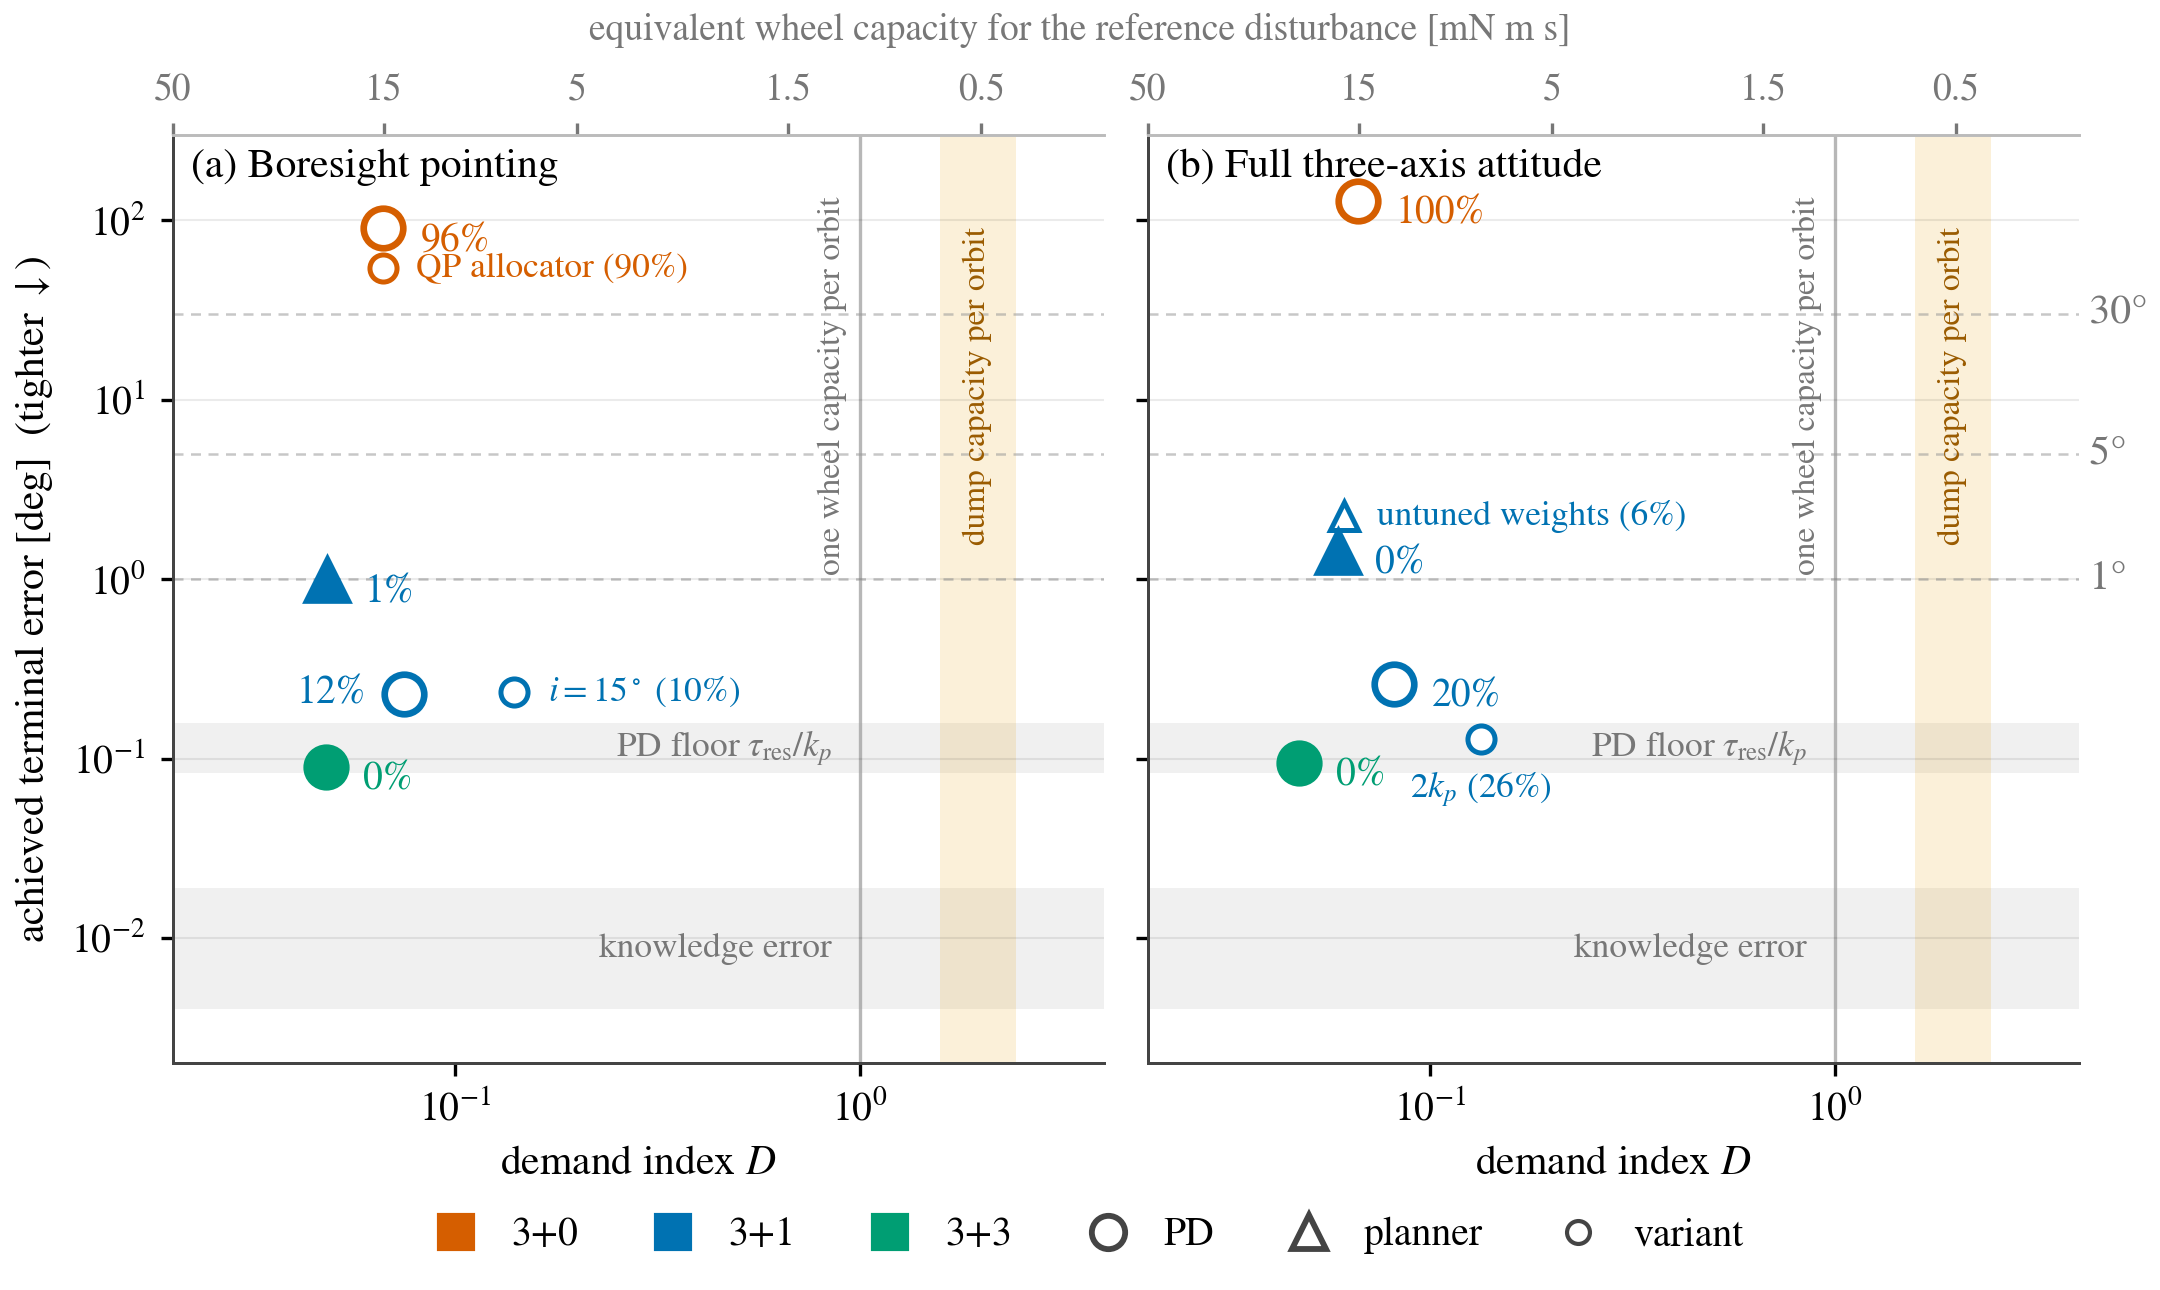
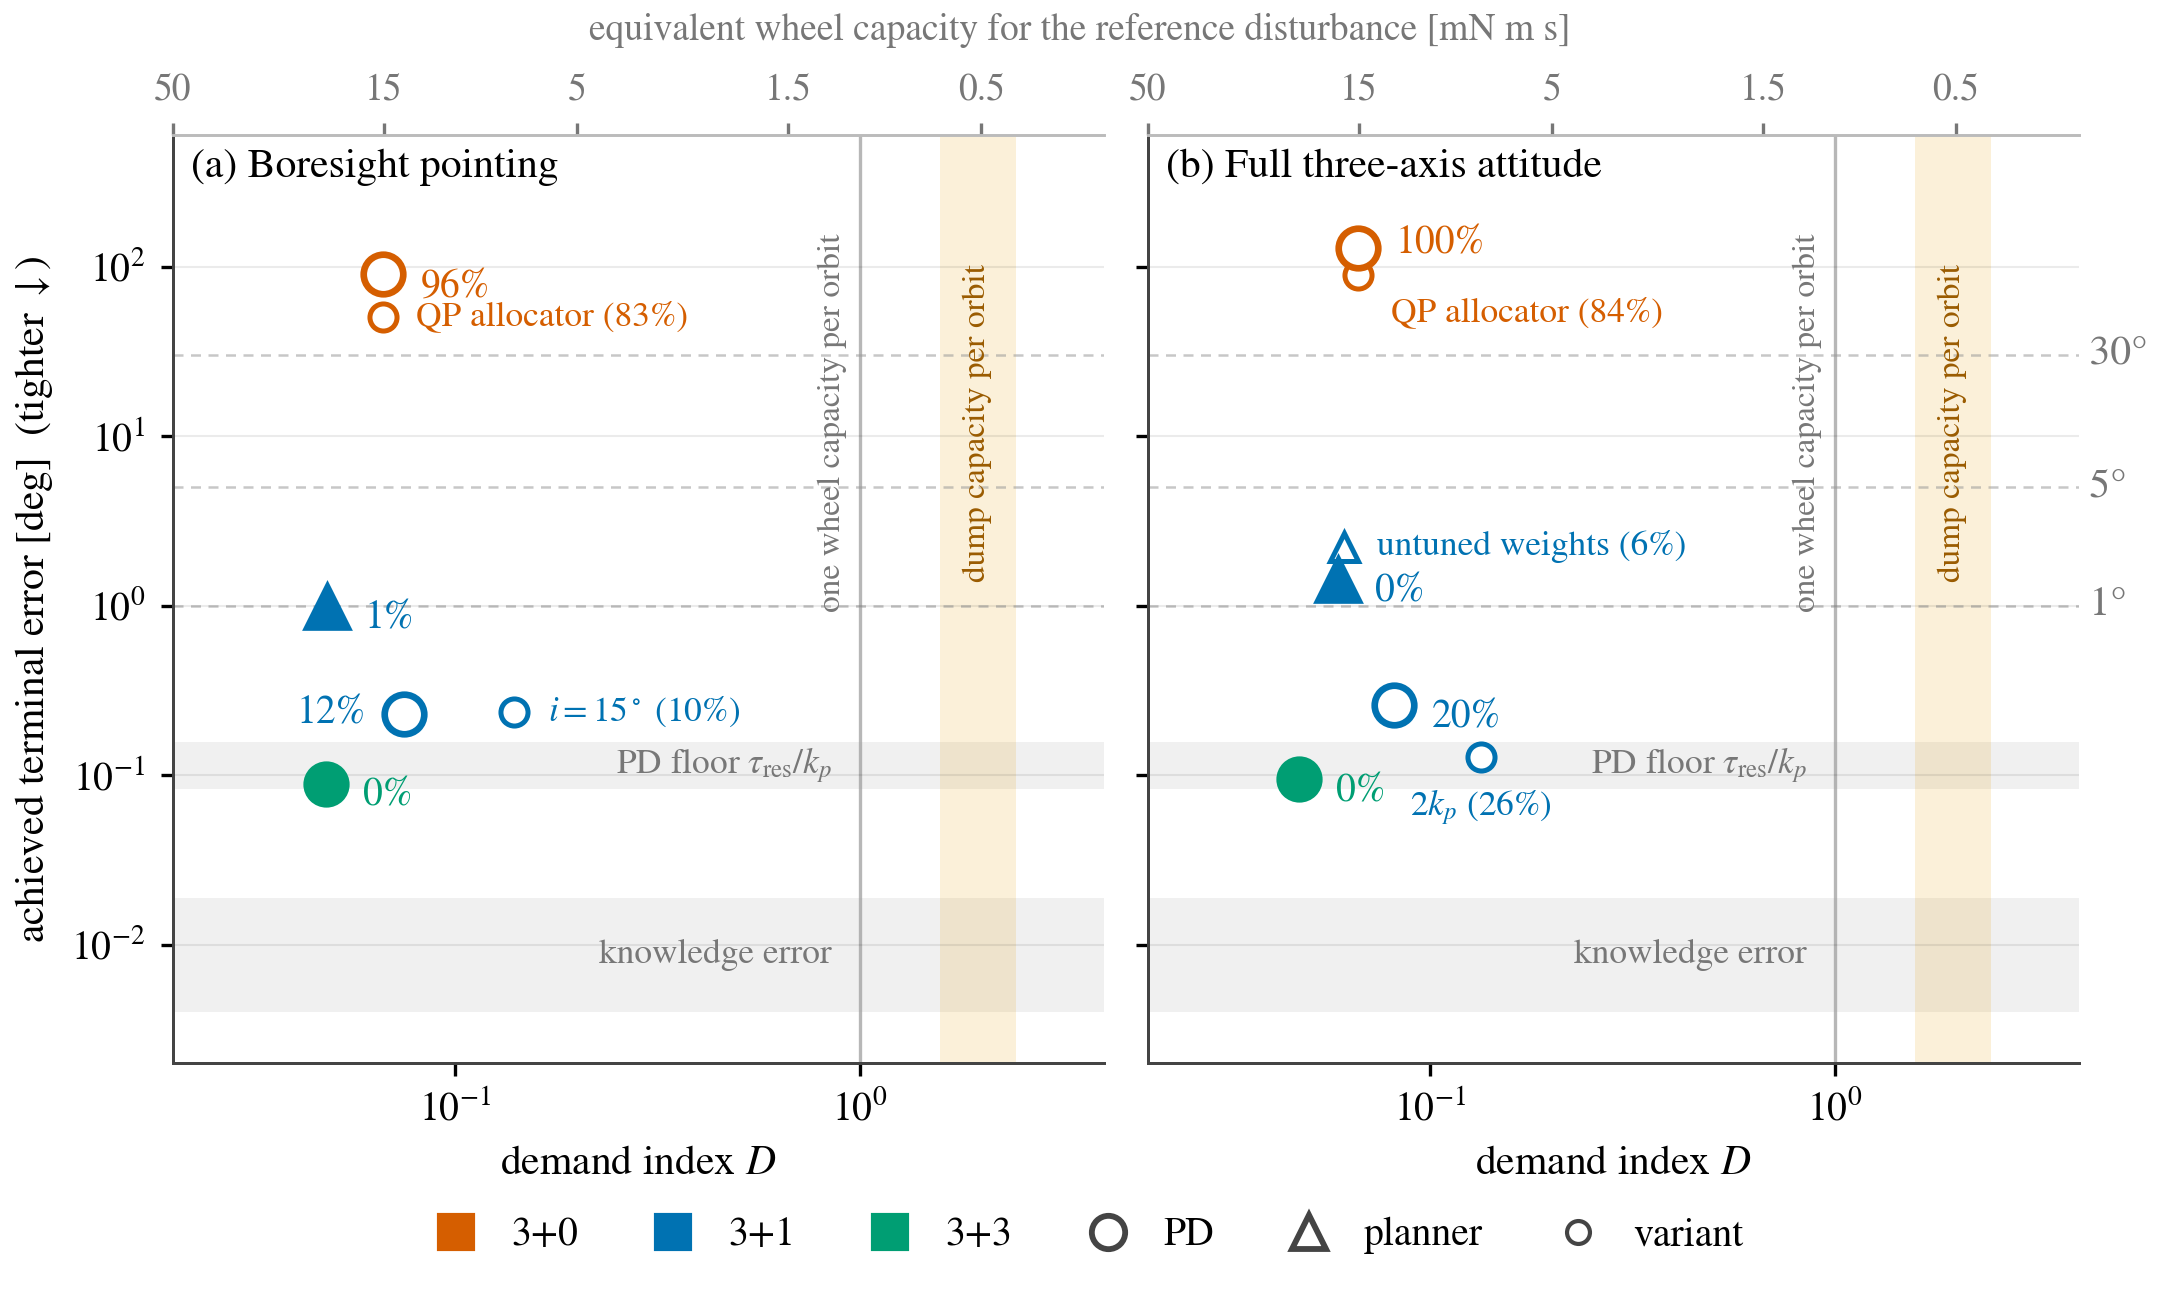
fig(IAC): Figure 4 v2 with QP allocator cells at n=100 on both panels

diff --git a/papers/IAC_1RW/fig3_envelope_v2.py b/papers/IAC_1RW/fig3_envelope_v2.py
@@ -74,12 +74,13 @@ def main():
                  ("3+1", "planner", cell_stats(g("tune_seed*_wave_planner_full.pkl"))),
                  ("3+3", "PD", jcell("3rw_full_pd", True))],
     }
-    # the manuscript reports the QP cell at n = 30; the n = 100 rerun is in progress
-    qp = cell_stats(sorted(g("wave/qp_0rw_reduced/*.pkl"))[:30]); qp["D"] = D_ref
+    qp = cell_stats(g("wave/qp_0rw_reduced/*.pkl")); qp["D"] = D_ref
+    qpf = cell_stats(g("wave/qp_0rw_full/*.pkl")); qpf["D"] = D_ref
     variants = {
         "reduced": [("3+0", "PD", "QP allocator", qp, (8, 0), "left"),
                     ("3+1", "PD", "$i=15^\\circ$", cell_stats(g("lowinc/*.pkl")), (8, 0), "left")],
-        "full": [("3+1", "PD", "$2k_p$", cell_stats(g("wave/pd_full_kp2/*.pkl")), (0, -12), "center"),
+        "full": [("3+0", "PD", "QP allocator", qpf, (8, -9), "left"),
+                 ("3+1", "PD", "$2k_p$", cell_stats(g("wave/pd_full_kp2/*.pkl")), (0, -12), "center"),
                  ("3+1", "planner", "untuned weights", cell_stats(g("tune_seed*_wave_planner_full_base.pkl")), (8, 0), "left")],
     }
     # PD settling floor tau_res / k_p: drag+GG (0.42 uN m) to +24% dipole residual (~0.8 uN m)
@@ -123,11 +124,12 @@ def main():
                     mfc=col if filled else "white", mec=col, mew=1.6, zorder=4)
             if True:
                 left = (task == "reduced" and arch == "3+1" and ctrl == "PD")
+                up = (task == "full" and arch == "3+0")
                 ax.annotate(f"{c['div']:.0f}%", (c["D"], c["med"]), textcoords="offset points",
-                            xytext=(-9, 0) if left else (9, -3), fontsize=9.5, color=col,
+                            xytext=(-9, 0) if left else ((9, 1) if up else (9, -3)), fontsize=9.5, color=col,
                             va="center", ha="right" if left else "left")
         ax.set_xscale("log"); ax.set_yscale("log")
-        ax.set_xlim(2e-2, 4.0); ax.set_ylim(2e-3, 3e2)
+        ax.set_xlim(2e-2, 4.0); ax.set_ylim(2e-3, 6e2)
         fig_style.log_decades_only(ax)
         ax.grid(True, which="major", axis="y")
         ax.text(0.02, 0.985, title, transform=ax.transAxes, ha="left", va="top", fontsize=10)
